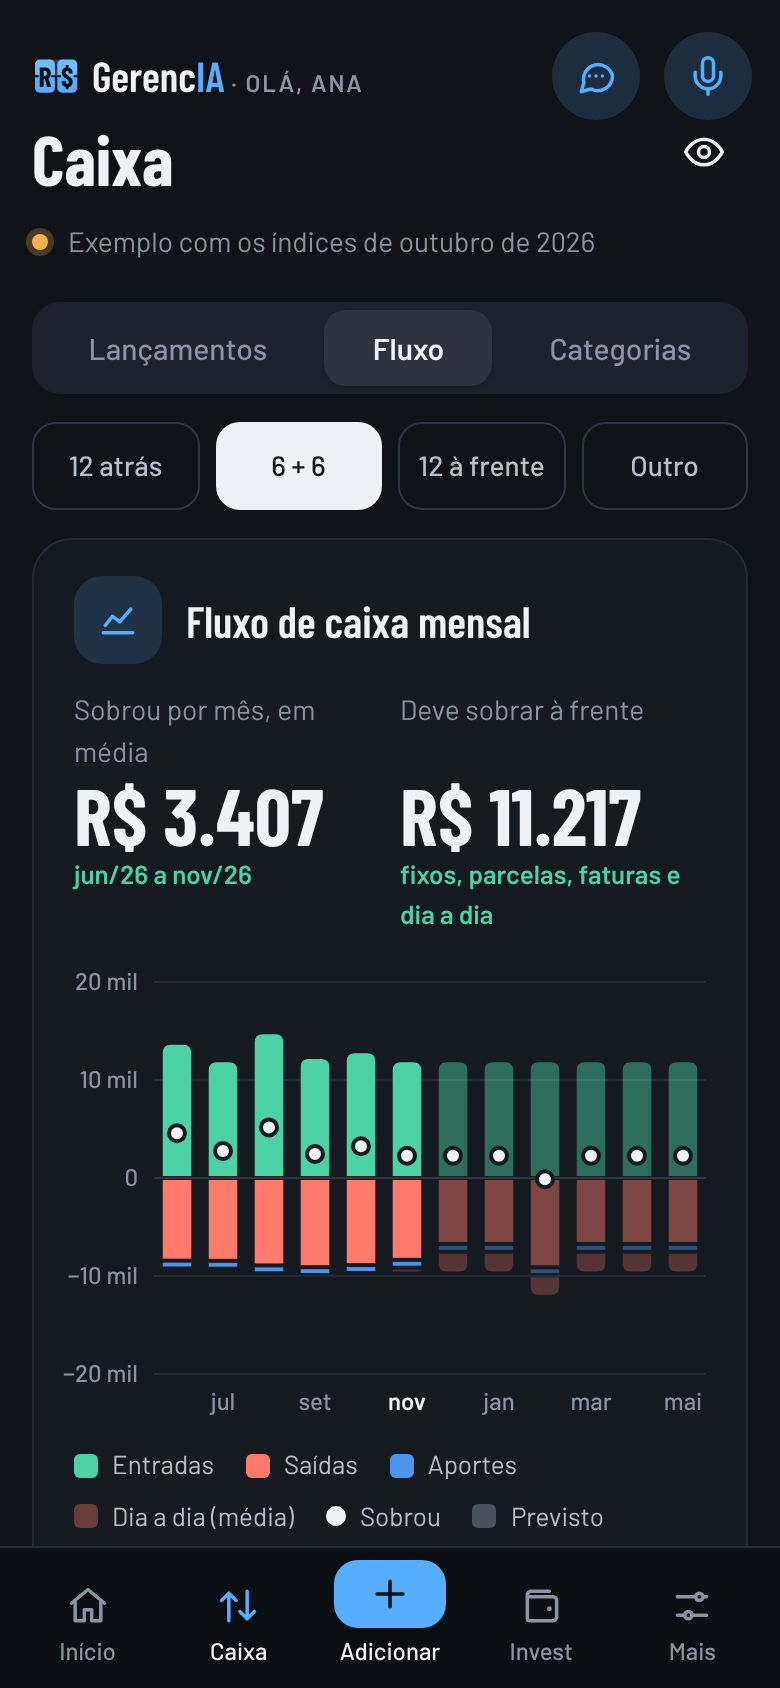
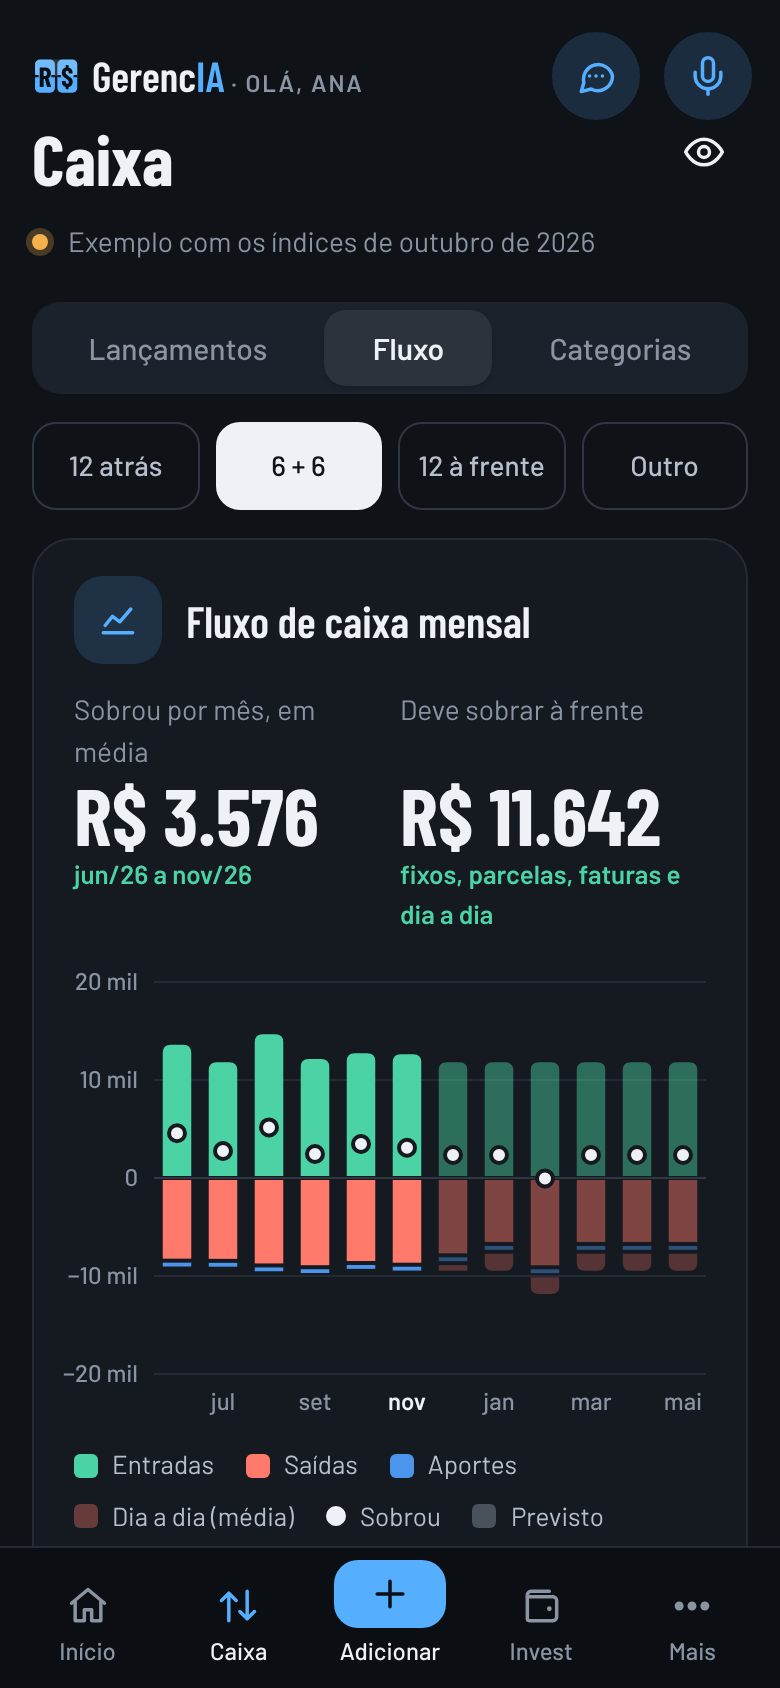
GerencIA: README, manual e prints atualizados
- README: o que tem hoje (bens da casa, salário bruto e Ler recibo, Aplicar
  mais/Transferir/Atualizar saldos, Digitalizar com IA, Usar IA, Mais como
  menu, Cor do dia); placar sem o dinheiro de terceiros; imagens só nos
  investimentos; evolução de 1 a 50 anos.
- Manual (DOCS.md): caminho da loja como nos outros apps, primeira vez
  (Vamos começar e dados de exemplo), Adicionar em cada aba, Duplicar, olho
  que esconde valores, Mostrar dispensadas, sugestões da conversa, sensores
  desligados por padrão, Restaurar, Importar e Começar do zero.
- Página do app na loja (gerencia/README.md) com as funções novas.
- Prints refeitos (1.26.0): Início, Fluxo, Evolução e Conversar com a IA no
  lugar das Dicas. O script para o relógio num dia fixo (cor Azul, mesmos
  números a cada vez) e esconde o aviso de exemplo da prévia.

Claude-Session: https://claude.ai/code/session_019b4houP2YyLE6hAAt79Mdj

diff --git a/tools/capturas_docs.py b/tools/capturas_docs.py
@@ -1,21 +1,28 @@
-"""Refaz as capturas de tela do README (docs/*.png) a partir da prévia, com os dados de exemplo.
-Uso: python3 tools/montar_previa.py && python3 tools/capturas_docs.py   (precisa do playwright)"""
+"""Refaz as capturas de tela do README (docs/*.png) a partir da prévia, com os dados de exemplo (inventados).
+Uso: python3 tools/montar_previa.py && python3 tools/capturas_docs.py   (precisa do playwright)
+
+Celular de 390x844 (PNG 780x1688), tema escuro. O relógio fica parado em DIA, para as capturas saírem iguais a cada vez:
+o exemplo é montado a partir de hoje, e a Cor do dia desse dia é o Azul, a cor do GerencIA."""
 import os
 from playwright.sync_api import sync_playwright
 
 RAIZ = os.path.dirname(os.path.dirname(os.path.abspath(__file__)))
 PREVIA = "file://" + os.path.join(RAIZ, "preview", "gerencia-previa.html")
 DOCS = os.path.join(RAIZ, "docs")
+DIA = "2026-11-18T10:00:00-03:00"
+# o aviso "Exemplo. Estes valores são de demonstração" só existe na prévia
+SEM_AVISO = ".exemplo { display: none !important; }"
 
 with sync_playwright() as p:
     b = p.chromium.launch()
-    pg = b.new_page(viewport={"width": 390, "height": 844}, device_scale_factor=2, color_scheme="dark")
+    pg = b.new_page(viewport={"width": 390, "height": 844}, device_scale_factor=2, color_scheme="dark",
+                    locale="pt-BR", timezone_id="America/Sao_Paulo")
+    pg.clock.set_fixed_time(DIA)
     pg.goto(PREVIA)
+    pg.add_style_tag(content=SEM_AVISO)
     pg.wait_for_timeout(1500)
     tirar = lambda nome: (pg.wait_for_timeout(700), pg.screenshot(path=os.path.join(DOCS, nome)))
     tirar("inicio.png")
-    pg.locator(".card", has_text="Dicas de economia").first.evaluate("el => window.scrollTo(0, el.getBoundingClientRect().top + window.scrollY - 90)")
-    tirar("dicas.png")
     pg.click('#nav [data-v="caixa"]')
     pg.wait_for_timeout(400)
     pg.get_by_role("button", name="Fluxo", exact=True).first.click()
@@ -24,5 +31,15 @@ with sync_playwright() as p:
     pg.wait_for_timeout(400)
     pg.get_by_role("button", name="Evolução", exact=True).first.click()
     tirar("invest.png")
+    # Conversar com a IA, no Início: uma pergunta e um gasto, com o cartão de Confirmar
+    pg.click('#nav [data-v="inicio"]')
+    pg.wait_for_timeout(400)
+    pg.locator('.cab [data-a="chat"]').first.click()
+    pg.wait_for_selector(".ch-vazio")
+    for texto in ["Quais são as próximas contas?", "Gastei 45 no mercado no cartão"]:
+        pg.fill("#ch-txt", texto)
+        pg.click('[data-a="ch-enviar"]')
+        pg.wait_for_timeout(1200)
+    tirar("chat.png")
     b.close()
 print("capturas em", DOCS)

diff --git a/gerencia/DOCS.md b/gerencia/DOCS.md
@@ -4,10 +4,12 @@ Seu dinheiro dentro do Home Assistant: o caixa do dia a dia (o que entra, o que 
 
 ## Instalar
 
-1. No Home Assistant, abra **Configurações > Apps > Loja de apps**, toque no menu, escolha **Repositórios** e cole `https://github.com/diegozapella63/gerencia-ha`.
+1. No Home Assistant, abra **Configurações › Aplicativos › Loja de aplicativos**, toque no menu **⋮ › Repositórios** e cole `https://github.com/diegozapella63/gerencia-ha`.
 2. Abra **GerencIA**, toque em **Instalar**, depois em **Iniciar**, e ligue **Mostrar na barra lateral**.
 
-O app abre pela barra lateral (Ingress). Quem já está logado no Home Assistant usa direto, sem outra senha, e o app cumprimenta pelo nome.
+O app abre pela barra lateral. Quem já está logado no Home Assistant usa direto, sem outra senha, e o app cumprimenta pelo nome.
+
+Na primeira vez, o Início mostra **Vamos começar**: cadastrar o salário e os gastos fixos, um investimento, ler uma fatura ou um print com IA, importar um backup ou **ver com dados de exemplo** (depois, **Apagar exemplo** tira tudo).
 
 ## Telas
 
@@ -16,9 +18,10 @@ O app abre pela barra lateral (Ingress). Quem já está logado no Home Assistant
   - *Lançamentos*: o mês escolhido dia a dia, com filtro Tudo, Entradas, Saídas e A pagar e receber (no mês de hoje, o que ficou sem pagar nos dois meses anteriores aparece primeiro; é para onde leva o aviso de contas atrasadas). Compras no cartão aparecem juntas na fatura, no dia em que ela vence. Como no CronologIA, o que já foi pago ou recebido fica **verde, com o visto**; o que falta tem um **círculo do lado**: toque nele para dar baixa (Paguei, Recebi, Apliquei).
   - *Fluxo*: entradas e saídas por mês, o que sobrou e o saldo em caixa, com 12 meses atrás, 6 + 6, 12 à frente ou **Outro** (por exemplo 24 atrás, 12 + 12 ou o número de meses que quiser, até 60 de cada lado). A média do que sobrou começa no primeiro mês com lançamentos.
   - *Categorias*: para onde foi o dinheiro (gastos) e de onde veio (recebimentos) no mês.
-- **Adicionar**: escolha despesa, recebimento, aporte, investimento ou ler com IA. Na aba Caixa ou Invest, o botão já sugere o que faz sentido ali.
+- **Adicionar**: no Início, escolha despesa, recebimento, aporte, ler com IA, investimento ou atualizar saldos. No Caixa, o botão abre direto a Nova despesa (com o filtro Entradas, o Novo recebimento); no Invest, o Novo investimento. Um lançamento avulso ou um investimento aberto tem **Duplicar**, que abre uma cópia para salvar como novo.
 - **Invest**: o **Buscar** fica no alto (digitar nele abre a Carteira). *Carteira* (lista com filtro Todos, Meus, Terceiros, por pessoa e por banco), *Evolução* (registrado e projeção de 1, 2, 5 ou 10 anos, ou **Outro**, de 1 a 50 anos, com o aporte por mês das contas a pagar do tipo Aporte, IR e valor em dinheiro de hoje) e *Divisão* (por banco, dono, tipo ou liquidez).
 - **Transferir entre investimentos**: abra um investimento e toque em **Transferir**. Escolha quanto (ou **Tudo**) e para qual investimento: o valor sai de um e soma no outro, sem mexer no caixa. Se passar tudo, dá para manter o investimento zerado na carteira ou tirá-lo.
+- O **olho** no alto esconde os valores no Início, no Caixa e no Invest (cada aparelho lembra a escolha).
 - No celular, **arrastar para o lado** troca de aba: Início ⇄ Caixa ⇄ Invest ⇄ Mais (não vale começando na borda da tela, num gráfico ou numa fileira que rola para o lado). Numa tela de Mais, arrastar para a direita volta ao menu.
 - **Mais** é um menu, como no InventarIA: cada linha abre a sua tela, com **‹ Mais** no alto para voltar (o Voltar do celular também volta ao menu).
   - **Bancos**: bancos, quem tem conta em cada um e quem tem cartão.
@@ -45,7 +48,7 @@ Ao lançar uma despesa ou recebimento, escolha **Repetir: Todo mês**. O fixo ap
 
 Para o que vence uma vez por ano (anuidade, IPVA, seguro, plano anual), escolha **Todo ano**: o fixo aparece só no mês da data escolhida, todo ano.
 
-Quando o valor real de um mês for diferente (um salário maior, uma conta de luz menor), toque no lançamento, troque o valor e salve em **Só este mês**. O valor padrão continua o mesmo para os próximos meses. Para mudar o padrão, salve em **Todos os meses** ou abra **Mais › Caixa › Fixos**. Ao apagar um fixo, você escolhe entre tirar só aquele mês ou parar dali para frente.
+Quando o valor real de um mês for diferente (um salário maior, uma conta de luz menor), toque no lançamento, troque o valor e salve em **Só este mês**. O valor padrão continua o mesmo para os próximos meses. Para mudar o padrão, salve em **Todos os meses** ou abra **Mais › Caixa › Fixos**.
 
 ### Salário bruto, impostos e descontos
 
@@ -98,7 +101,7 @@ A dica só aparece quando dá para confirmar na origem:
 3. O app só aceita um preço se o trecho citado pela IA estiver escrito na página, com aquele número.
 4. O valor que você paga precisa bater com o preço mensal de um único plano. Em planos em dólar, o app compara com o dólar do Banco Central, com folga para o IOF e o câmbio do cartão.
 
-No Início, a dica mostra a **economia real** por ano: o desconto do plano anual menos o que o dinheiro das mensalidades renderia se ficasse investido. Para isso o app usa os seus investimentos e as taxas cadastradas: o que você tem com liquidez diária e rende mais, já com IR (o dinheiro sai mês a mês, então precisa poder ser resgatado). Sem nenhum com liquidez diária, usa a média dos seus investimentos; sem investimentos, 100% do CDI. Se o rendimento empatar com o desconto, a dica não aparece. A dica também mostra a fonte e a data em que o preço foi conferido. Em planos em dólar, a economia em reais é estimada pelo que você paga hoje. Toque em **Mudar para anual** depois de trocar o plano no site do serviço: o fixo mensal para e entra um fixo anual no seu fluxo. **Agora não** esconde a dica.
+No Início, a dica mostra a **economia real** por ano: o desconto do plano anual menos o que o dinheiro das mensalidades renderia se ficasse investido. Para isso o app usa os seus investimentos e as taxas cadastradas: o que você tem com liquidez diária e rende mais, já com IR (o dinheiro sai mês a mês, então precisa poder ser resgatado). Sem nenhum com liquidez diária, usa a média dos seus investimentos; sem investimentos, 100% do CDI. Se o rendimento empatar com o desconto, a dica não aparece. A dica também mostra a fonte e a data em que o preço foi conferido. Em planos em dólar, a economia em reais é estimada pelo que você paga hoje. Toque em **Mudar para anual** depois de trocar o plano no site do serviço: o fixo mensal para e entra um fixo anual no seu fluxo. **Agora não** esconde a dica (**Mostrar dispensadas**, em Mais › Caixa, traz de volta).
 
 O app também avisa quando uma categoria fica bem acima da sua média dos 3 meses anteriores, pelos seus próprios lançamentos.
 
@@ -141,6 +144,8 @@ O microfone fica no alto de cada tela, à direita. Toque, fale e toque de novo q
 
 O balão ao lado do microfone abre uma conversa com a IA, a qualquer momento e em qualquer tela. Ela vê os seus dados (caixa, contas a pagar, fixos, lançamentos recentes, investimentos e patrimônio) e o que está na tela aberta, então dá para perguntar "quanto gastei com mercado este mês?", "o que vence esta semana?" ou "quanto rende a minha carteira?". Também conversa sobre outros assuntos.
 
+Com a conversa vazia, aparecem sugestões para a tela aberta: é só tocar.
+
 E ela faz, sempre pedindo confirmação: peça para **lançar** um gasto ou recebimento ("gastei 45 no mercado no cartão"), **pagar** uma conta que já está no app ("paguei a luz, 190 reais"; vale também para o fixo do mês e a fatura do cartão) ou **atualizar um saldo** e **aplicar** num investimento ("apliquei 500 na reserva"). A resposta traz um cartão com o que vai ser feito:
 
 - **Confirmar** faz na hora, com as mesmas regras da leitura por IA (conta, categoria, cartão e fatura, parcelas). Se parecer repetido, abre a conferência antes.
@@ -177,11 +182,11 @@ Os índices (CDI, Selic, IPCA 12 meses e TR) vêm do Banco Central a cada 12 hor
 
 Em **Mais › Configurações › Integrações**, a chave **Usar IA** liga e desliga tudo o que usa IA: Ler com IA, Ler recibo, Falar, Conversar com a IA, Atualizar saldos e a conferência de preços das dicas. Desligada, os botões somem nos aparelhos todos, e as dicas de plano anual também (o preço é conferido pela IA); as dicas de categoria acima da média continuam, porque não usam IA.
 
-Logo abaixo, **Uso da IA** mostra quantas chamadas o app fez hoje, nos últimos 7 dias e no mês, com um gráfico por dia, os tipos (ler lançamentos, ler investimentos, ler recibo, conferir preço, falar, conversa) e as últimas chamadas, no mesmo jeito do InventarIA, do ResolvIA e do CronologIA. O Home Assistant não informa tokens nem custo, então o app estima os tokens pelo tamanho do texto. O consumo exato fica no painel do provedor da IA.
+Logo abaixo, **Uso da IA** mostra quantas chamadas o app fez hoje, nos últimos 7 dias e no mês, com um gráfico por dia, os tipos (ler lançamentos, ler investimentos, ler recibo, atualizar saldos, conferir preço, falar, conversa) e as últimas chamadas, no mesmo jeito do InventarIA, do ResolvIA e do CronologIA. O Home Assistant não informa tokens nem custo, então o app estima os tokens pelo tamanho do texto. O consumo exato fica no painel do provedor da IA.
 
 ## Sensores
 
-Com **Sensores no Home Assistant** ligado, o app cria:
+Com **Sensores no Home Assistant** ligado (em Mais › Configurações › Integrações; vem desligado), o app cria:
 
 - `sensor.gerencia_patrimonio`: o seu patrimônio, sem o dinheiro de terceiros (atributos `seu`, `de_terceiros`, `com_terceiros`, `investimentos` e, com o InventarIA, `com_bens`)
 - `sensor.gerencia_meu`
@@ -228,11 +233,13 @@ Rotas usadas pelo CronologIA (todas com `Authorization: Bearer <chave>`):
 
 ## Dados e backup
 
-- Tudo fica em `/data/gerencia.json`, que entra nos backups do Home Assistant. As fotos ficam em `/data/fotos`.
-- **Criar backup** salva um `.zip` em `share/gerencia`, com os dados e as fotos.
+- Tudo fica em `/data/gerencia.json`, que entra nos backups do Home Assistant. As imagens dos investimentos ficam em `/data/fotos`.
+- **Criar backup** (Mais › Configurações › Dados) salva um `.zip` em `share/gerencia`, com os dados e as imagens. Logo abaixo ficam os últimos backups da pasta, cada um com **Restaurar**.
+- **Importar** traz de volta um `.zip` ou `.json` exportado pelo GerencIA; antes, o app guarda uma cópia do que existe.
 - O app guarda uma versão a cada 10 minutos de uso e antes de importar ou restaurar, e fica com as 3 mais recentes, como os outros apps.
 - **Exportar** (Mais › Configurações › Dados), uma linha por arquivo, cada uma com o que ele tem: **Lançamentos (CSV)**, um lançamento por linha, com os fixos e os descontos do salário; **Investimentos (CSV)**, um investimento por linha; **Dados completos (JSON)**; **Tudo (ZIP)**, com os dados, as duas planilhas e as imagens, que o Importar traz de volta. Os CSV abrem no Excel e no Google Planilhas (separados por ponto e vírgula).
 - **Relatório de patrimônio** (linha própria em Mais): por dono e por banco, para imprimir ou salvar em PDF.
+- **Começar do zero** apaga lançamentos, fixos, investimentos e bancos; índices, categorias e preferências continuam, e uma cópia fica em Versões anteriores.
 
 ## Avisos
 

diff --git a/README.md b/README.md
@@ -2,13 +2,13 @@
 
 ![GerencIA](gerencia/logo.png)
 
-Um App do Home Assistant para cuidar do **seu dinheiro**: o **caixa do dia a dia** (recebimentos, despesas, fixos, parcelas e faturas de cartão), os **investimentos** com rendimento no padrão de mercado e quanto eles vão render, e **leitura por IA** de faturas em PDF, prints e mensagens do WhatsApp.
+Um App do Home Assistant para cuidar do **seu dinheiro**: o **caixa do dia a dia** (recebimentos, despesas, fixos, parcelas e faturas de cartão), os **investimentos** com rendimento no padrão de mercado e quanto eles vão render, os **bens da casa** e a **IA**, que lê faturas em PDF, prints e mensagens do WhatsApp e conversa sobre as suas contas.
 
 <p align="center">
   <img src="docs/inicio.png" width="24%" alt="Início com o placar do patrimônio">
   <img src="docs/caixa.png" width="24%" alt="Fluxo de caixa mensal">
   <img src="docs/invest.png" width="24%" alt="Evolução projetada dos investimentos">
-  <img src="docs/dicas.png" width="24%" alt="Dicas de economia">
+  <img src="docs/chat.png" width="24%" alt="Conversar com a IA">
 </p>
 
 ## Instalação
@@ -29,24 +29,30 @@ A primeira instalação leva alguns minutos, porque o app é montado no próprio
 
 ## O que tem
 
-- **Início** com um placar de plaquinhas que viram, como num painel de cotações, na cor do app: patrimônio, seu dinheiro, o de terceiros e quanto rende por mês.
+- **Início** com um placar de plaquinhas que viram, como num painel de cotações, na cor do app: o seu patrimônio (investimentos e bens) e quanto rende por mês, com o caixa do mês, as dicas e os avisos logo abaixo.
 - **Caixa do mês**: quanto entrou, quanto saiu, o que falta pagar e o saldo previsto para o fim do mês.
 - **Recebimentos e despesas** com categoria, conta e cartão de cada pessoa.
 - **Fixos** todo mês ou todo ano, com valor padrão: o salário pode vir maior ou menor num mês sem mudar o padrão.
+- **Salário bruto** com impostos na fonte e descontos (como o plano de saúde), preenchido pelo **Ler recibo** com IA.
 - **Cartão de crédito**: compras, parcelas e fixos entram no mês em que a fatura vence, também nos gráficos dos próximos meses.
 - **Bancos com contas por pessoa**: "Banco Lua: Ana com cartão (fecha dia 3, vence dia 10) e Beto com cartão (fecha dia 28, vence dia 5)".
 - **Fluxo de caixa** mês a mês, com entradas, saídas, o que sobrou, saldo e previsão do dia a dia.
 - **Categorias** de gastos e de recebimentos.
 - **Investimentos** com rendimento no padrão de mercado (% do CDI, CDI +, prefixado, IPCA +, Selic +, poupança) e índices do Banco Central.
+- **Aplicar mais** e **Transferir** entre investimentos, e **Atualizar saldos** de vários de uma vez, por uma lista ou um print.
 - **Meu ou de terceiros**: de quem é cada dinheiro, com o total por pessoa.
-- **Evolução projetada** de 1 a 10 anos, com desconto de IR e valor em dinheiro de hoje. O aporte por mês vem das contas a pagar do tipo **Aporte**, o compromisso de aplicar todo mês.
-- **Leitura por IA**: fatura em PDF, print, foto de papel ou texto do WhatsApp viram lançamentos, e print do banco vira investimento. Você confere tudo antes de lançar.
+- **Evolução projetada** de 1 a 50 anos, com desconto de IR e valor em dinheiro de hoje. O aporte por mês vem das contas a pagar do tipo **Aporte**, o compromisso de aplicar todo mês.
+- **Bens da casa**: com o [InventarIA](https://github.com/diegozapella63/inventario-ha), os itens entram no patrimônio, perdendo valor por categoria. Um carro ou um imóvel, seu ou de terceiros, entra como investimento do tipo **Bens**.
+- **Leitura por IA**: fatura em PDF, print, foto de papel (também pela câmera, no **Digitalizar com IA**) ou texto do WhatsApp viram lançamentos, e print do banco vira investimento. Você confere tudo antes de lançar.
 - **Falar**: o microfone no alto de cada tela. Fale os gastos e recebimentos; o Home Assistant transcreve e a IA separa os lançamentos para você conferir.
 - **Conversar com a IA**: o balão ao lado do microfone. Pergunte sobre o que está na tela ou sobre o seu dinheiro, ou peça para lançar, pagar uma conta ou atualizar um saldo: a IA mostra e você confirma.
+- **Usar IA**: uma chave liga e desliga tudo o que usa IA; o **Uso da IA** mostra as chamadas de cada dia.
 - **Dicas de economia**: quando uma assinatura tem plano anual mais barato, com o preço conferido na página oficial do serviço.
-- **Fotos** em lançamentos e investimentos.
-- **Sensores** no Home Assistant: patrimônio, seu dinheiro, de terceiros, rendimento, saldo em caixa, entradas e saídas do mês.
+- **Imagens** nos investimentos (comprovante, print do banco).
+- **Sensores** no Home Assistant, se quiser: patrimônio, seu dinheiro, de terceiros, rendimento, saldo em caixa, entradas e saídas do mês, bens e uso da IA.
 - **Contas no CronologIA**: com o [CronologIA](https://github.com/diegozapella63/cronologia-ha) instalado, as contas a pagar e as faturas aparecem na agenda, com o **Paguei** que dá baixa aqui. A ligação é automática.
+- **Mais**, um menu: Bancos, Caixa (fixos, categorias e dicas), Invest (índices e perda de valor dos bens), Relatório de patrimônio e Configurações.
+- **Tema claro e escuro** e **Cor do dia**: a cor do app muda todo dia, ou fica a que você escolher.
 - **No computador**, uma barra lateral com as seções, os bancos e as pessoas, as telas em duas colunas e as janelas no meio da tela, como nos outros apps.
 - **Backup** em `share/gerencia`, exportação em CSV, JSON e ZIP, relatório e versões anteriores.
 
@@ -70,6 +76,7 @@ gerencia/app/voz.py           Falar (fala para texto do Home Assistant)
 gerencia/app/chat.py          Conversar com a IA (o que a IA vê, as ações e a conversa guardada)
 gerencia/app/www/             interface (HTML, CSS e JavaScript, sem etapa de build)
 tools/montar_previa.py        gera preview/gerencia-previa.html (o app num arquivo só, com dados de exemplo)
+tools/capturas_docs.py        refaz as imagens de docs/ a partir da prévia
 tests/                        testes unitários, do servidor e visuais
 docs/                         imagens deste README
 ```

diff --git a/gerencia/README.md b/gerencia/README.md
@@ -1,12 +1,15 @@
 # GerencIA
 
-Seu dinheiro no Home Assistant: o caixa do dia a dia e os investimentos, com fluxo de caixa, projeções e leitura por IA.
+Seu dinheiro no Home Assistant: o caixa do dia a dia e os investimentos, com fluxo de caixa, projeções e IA.
 
 - Início com placar do patrimônio, caixa do mês e dicas de economia
 - Recebimentos e despesas, fixos todo mês ou todo ano, parcelas e faturas de cartão
+- Salário bruto com impostos e descontos na fonte
 - Bancos com conta e cartão por pessoa, com fechamento e vencimento
 - Fluxo de caixa mês a mês e categorias de gastos e recebimentos
 - Investimentos com rendimento no padrão de mercado, de quem é o dinheiro e evolução projetada
-- Leitura por IA de fatura em PDF, prints, papel e WhatsApp, e Falar pelo microfone
+- Bens da casa do InventarIA no patrimônio, perdendo valor por categoria
+- Leitura por IA de fatura em PDF, prints, papel, câmera e WhatsApp, Falar pelo microfone e Conversar com a IA
+- Contas a pagar na agenda do CronologIA, com o Paguei que dá baixa aqui
 - No computador, barra lateral e telas em duas colunas
-- Sensores, backup, exportação e tema claro e escuro seguindo o Home Assistant
+- Sensores, backup, exportação, tema claro e escuro e Cor do dia
